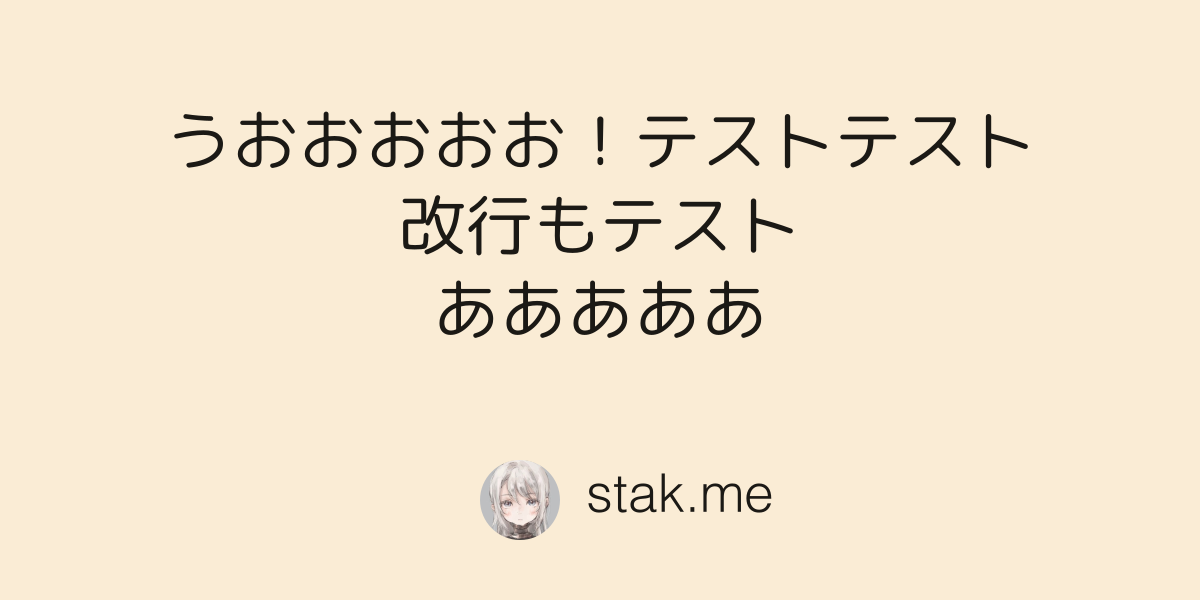
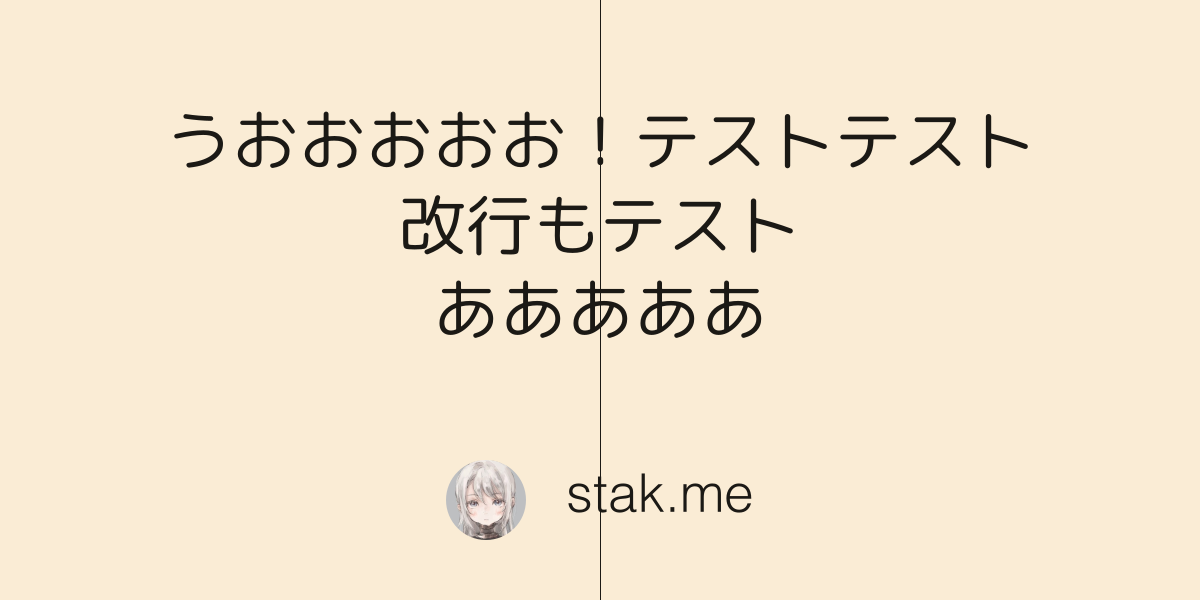
wip

Changed region(s): [[0.37, 0.75, 0.6475, 0.9]]

diff --git a/src/utils/image.ts b/src/utils/image.ts
@@ -24,7 +24,7 @@ export const createImage: (text: string) => void = async (text) => {
     // text
     const lines = text.split("\n").map((l) => l.trim());
     const fontSize = lines.length === 1 ? 70 : lines.length === 2 ? 60 : 50;
-    ctx.font = `bold ${fontSize}pt "M PLUS Rounded 1c"`;
+    ctx.font = `${fontSize}pt "M PLUS Rounded 1c"`;
     ctx.textAlign = "center";
     ctx.textBaseline = "top";
     ctx.fillStyle = ogTextColor;
@@ -47,21 +47,34 @@ export const createImage: (text: string) => void = async (text) => {
         ctx.fillText(line, centerX, centerY - textHeight / 2, titleWidth);
     });
 
+    // dev
+    ctx.fillRect(centerX, 0, 1, height);
+
     // footer
     ctx.font = `300 40pt "BIZ UDGothic"`;
     const footerText = "stak.me";
     const iconRadius = 40;
     const centerY = height - mergin - footerHeight;
+    const footerWidth =
+        iconRadius * 2 + mergin + ctx.measureText(footerText).width;
+    const footerStart = centerX - footerWidth / 2;
+    console.log(
+        ctx.measureText(footerText).width,
+        footerWidth,
+        footerStart,
+        footerStart + iconRadius * 2 + mergin
+    );
+    ctx.textAlign = "left";
     ctx.fillText(
         footerText,
-        centerX + iconRadius * 2,
+        footerStart + iconRadius * 2 + mergin,
         centerY - textHeight / 2,
-        titleWidth
+        footerWidth
     );
     const icon = await loadImage("public/icon/icon.jpg");
 
     ctx.arc(
-        centerX - mergin - iconRadius,
+        footerStart + iconRadius,
         centerY,
         iconRadius,
         0,
@@ -71,7 +84,7 @@ export const createImage: (text: string) => void = async (text) => {
     ctx.clip();
     ctx.drawImage(
         icon,
-        centerX - mergin - iconRadius * 2,
+        footerStart,
         centerY - iconRadius,
         iconRadius * 2,
         iconRadius * 2
